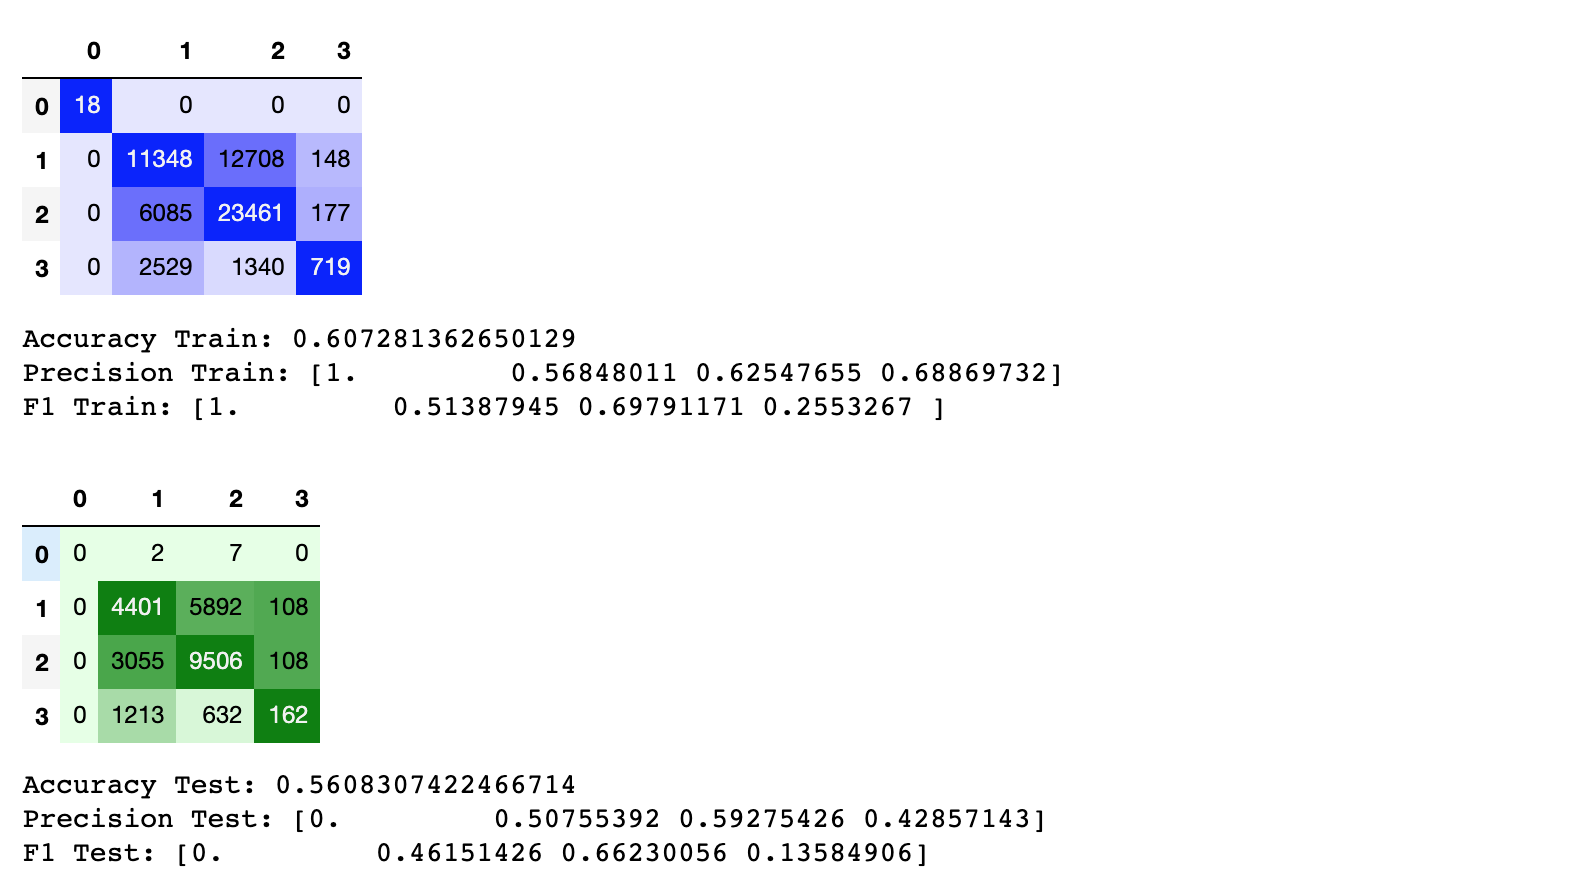
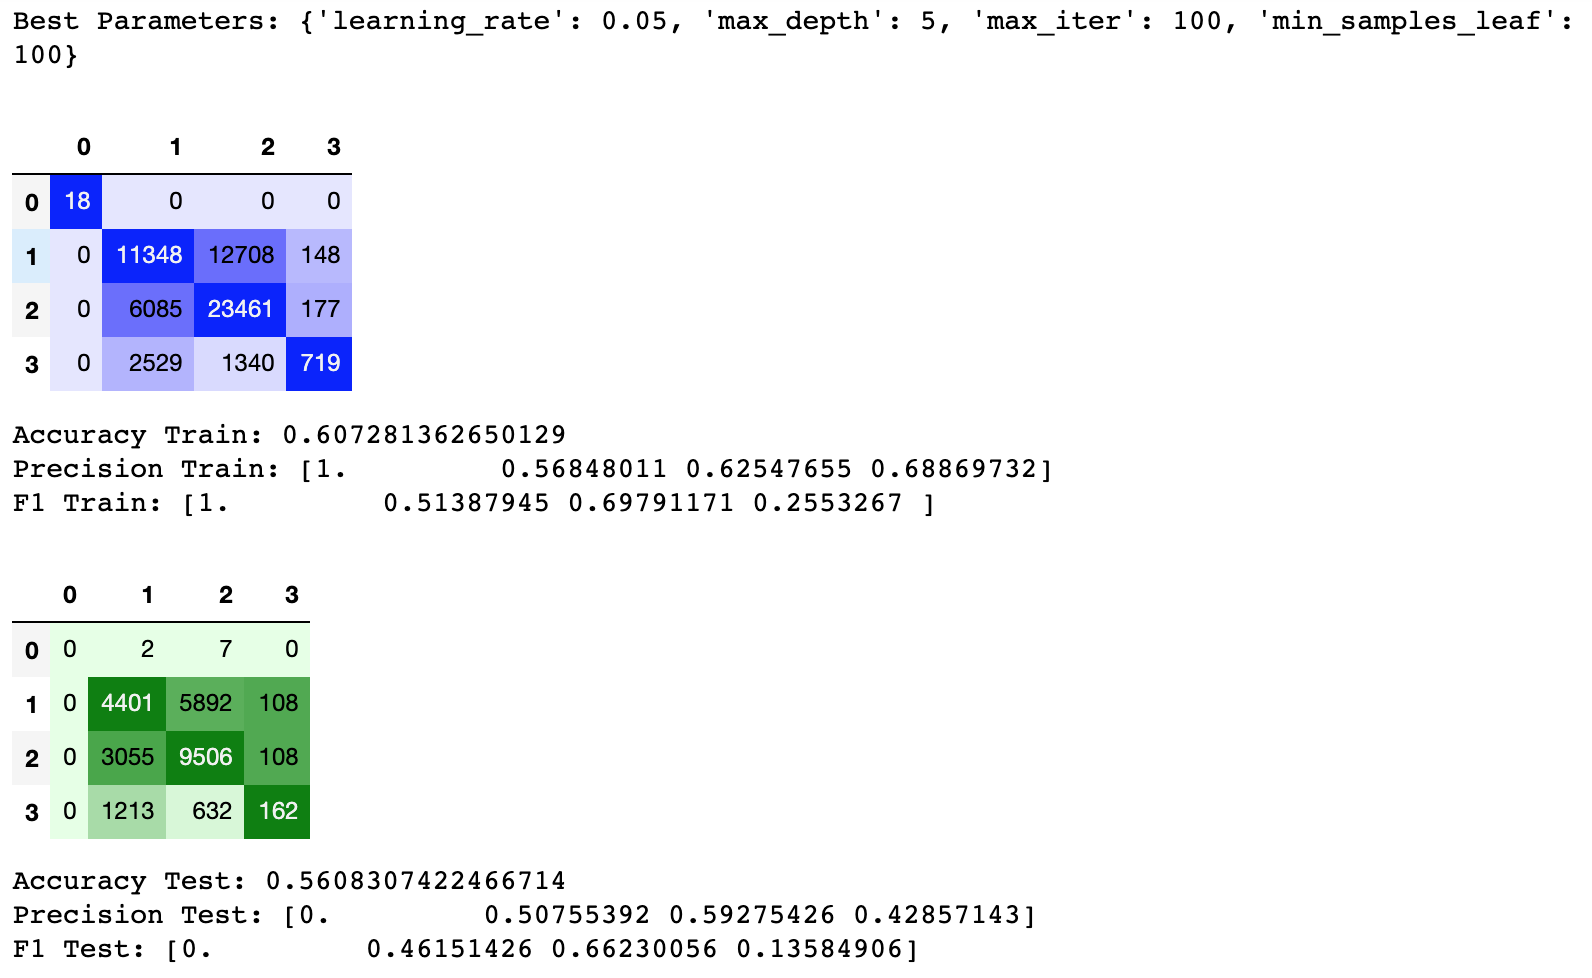
dtree udpates

diff --git a/docs/README.md b/docs/README.md
@@ -246,7 +246,7 @@ Hyperparameters for results shown:
 - max_depth: 8
 
 Results:
-![Single Run Results]
+![Single Run Results](https://raw.githubusercontent.com/alexanderfache6/traffic-accident-weather-analysis/master/code/Decision_singlerun.png?token=AKF5GLTSWS4H5L6R46EQRQC6UR45K)
 
 ##### GridSearchCV (Hyperparameter optimization):
 Search Space explored:
